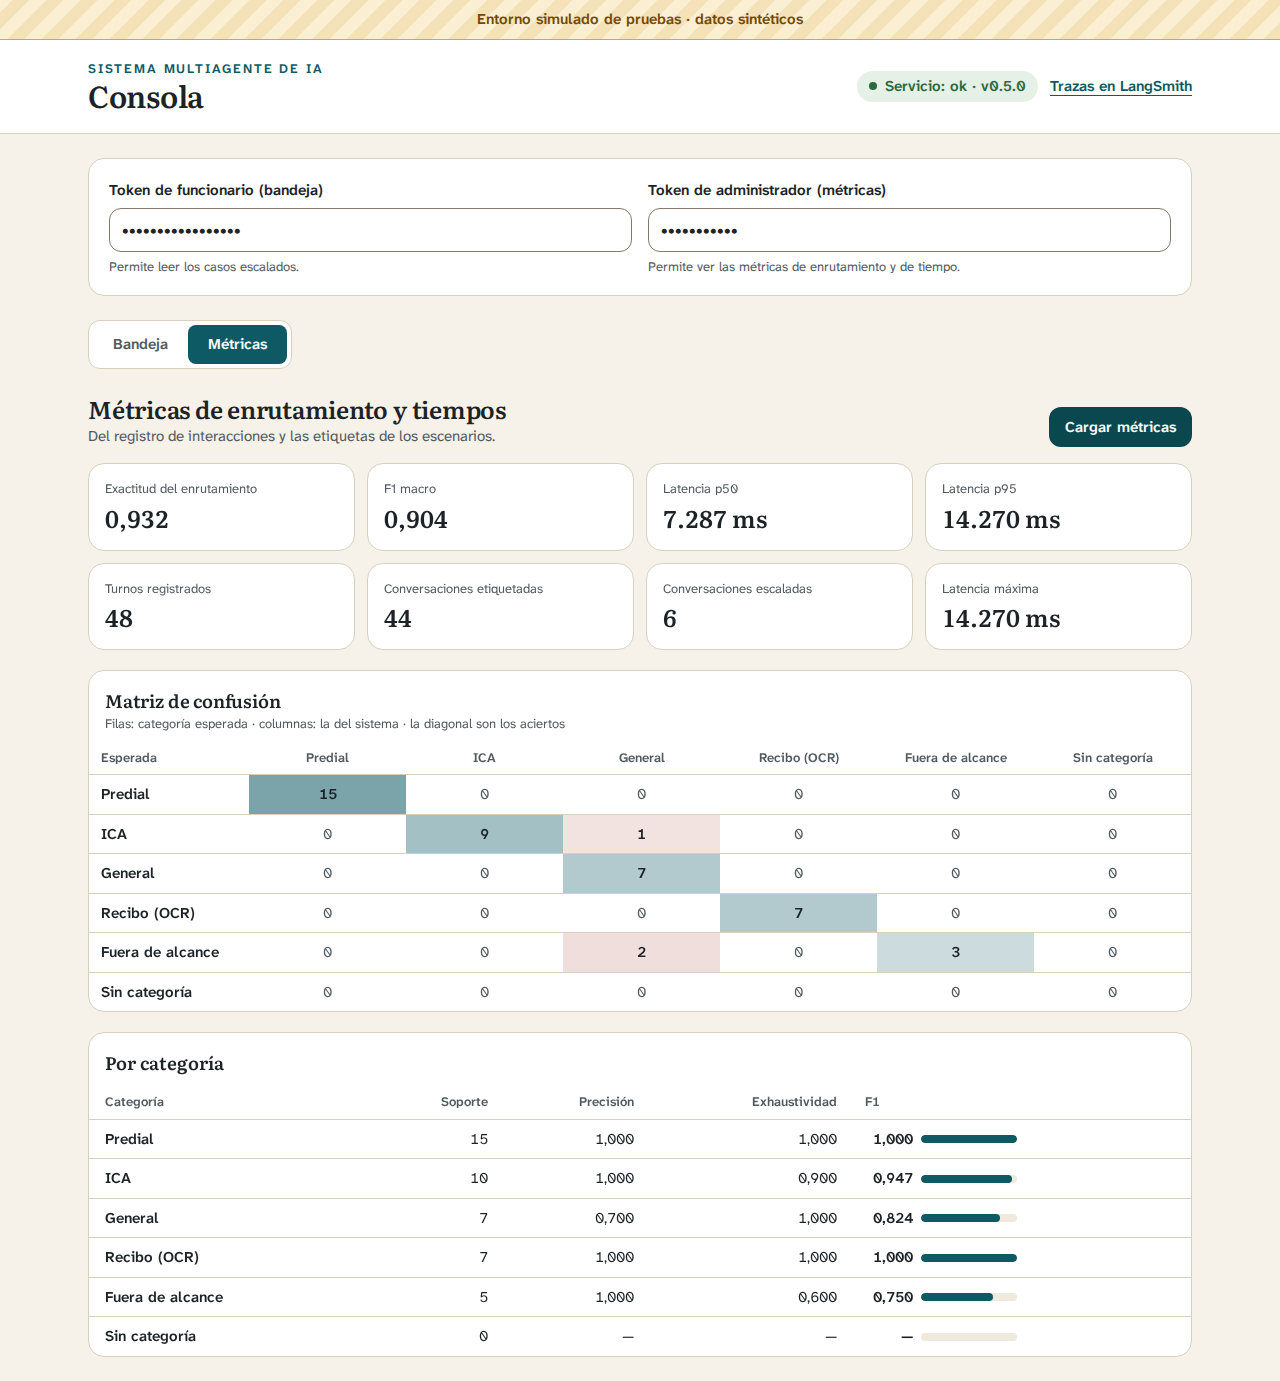
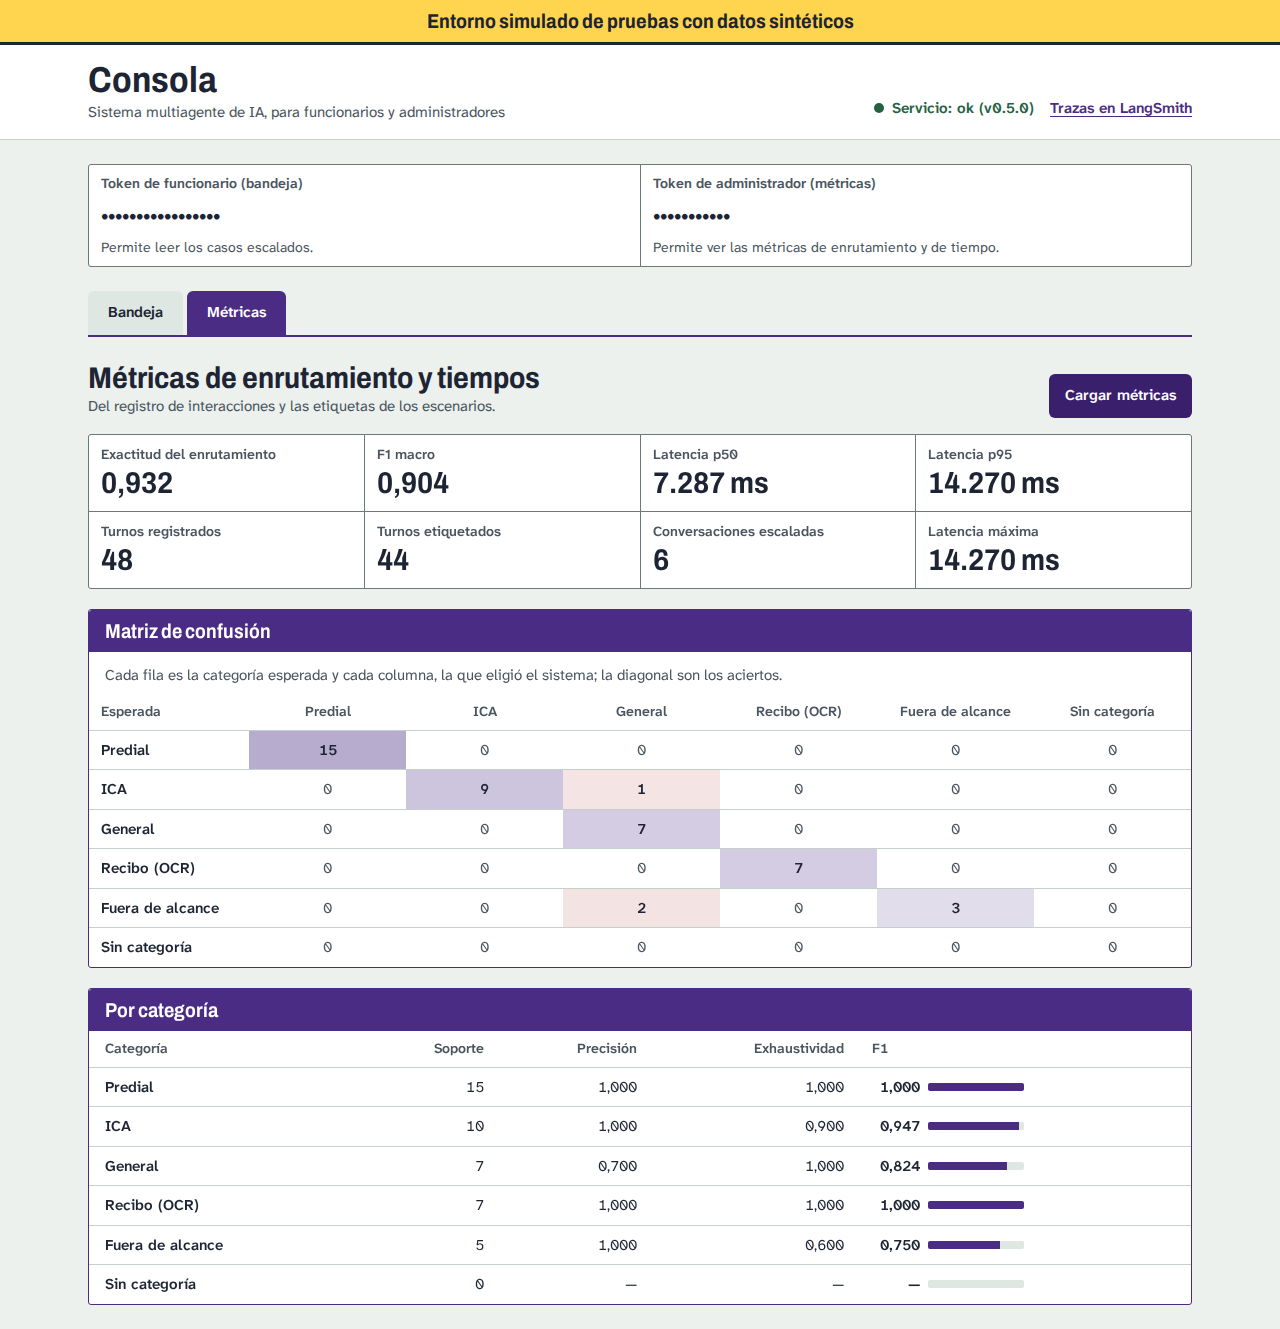
docs(web): registrar el sistema visual y volver a tomar las capturas
web/DESIGN.md con la dirección «Formulario y sello»; el resumen de B11
reemplaza la sección de diseño y el resumen para el documento; se
actualiza la fila 3.9 de los cambios para el documento; las 16
capturas se tomaron de nuevo y se revisaron una por una.

Refs: RF-UI-01 · Widget embebible

diff --git a/docs/resumenes/b11.md b/docs/resumenes/b11.md
@@ -24,25 +24,86 @@ Proyecto de Vite 8 con React 19 y Tailwind 4 en `web/` (ADR-08), con tres págin
 - **`/consola/`:**
   - la **bandeja** de solo lectura, con el token de funcionario: filtros por búsqueda, motivo y estado, y el detalle del caso con su resumen, su resumen estructurado (como lista de datos) y la conversación;
   - las **métricas**, con el token de administrador: exactitud, F1 macro, latencias p50 y p95 y la máxima, y conversaciones escaladas;
-  - la **matriz de confusión** como tabla con intensidad de color (acento en la diagonal y error fuera de ella), con números tabulares;
+  - la **matriz de confusión** como tabla con intensidad de color (morado en la diagonal y rojo fuera de ella), con números tabulares;
   - **precisión, exhaustividad y F1 por clase**;
   - el estado del servicio (`/health`) y un enlace a LangSmith.
 
 ### Diseño
 
-- **Dirección visual «papel cívico»:** institucional y confiable, pero cálida. Fondo de papel, tinta casi negra y un solo acento, azul petróleo. Sin degradados ni plantillas por defecto, y sin colores, logos ni nombres de la Alcaldía de Bogotá o de la Secretaría de Hacienda.
-- **Paleta** como variables del tema de Tailwind (`src/estilos.css`): superficies, texto, acento, éxito, advertencia y error.
-  - Todos los pares de texto cumplen WCAG 2.2 AA: tinta sobre papel 14,4:1, texto secundario 6,3:1, acento sobre blanco 7,9:1, advertencia 6,8:1, error 6,1:1 y éxito 5,6:1.
-  - Los bordes de los controles cumplen 3:1 (3,8:1).
-  - Las celdas de la matriz conservan al menos 5,9:1, porque la intensidad tiene un tope.
-- **Tipografía autoalojada** con fontsource, sin CDN: Literata, una serif humanista con tamaño óptico, para los títulos; y Atkinson Hyperlegible Next, diseñada para la legibilidad, para el texto. La escala de tamaños y de espacios es la misma en las tres páginas.
-- **Movimiento sobrio:** la entrada de los mensajes y los cambios de color duran de 150 a 220 ms, con ease-out. Con `prefers-reduced-motion`, no hay animaciones ni transiciones.
+La dirección «Formulario y sello» reemplazó a la primera dirección de B11 («papel cívico»), que
+tenía varias señales de diseño generado: fondo crema con serif en los títulos, etiquetas en
+mayúsculas espaciadas, datos unidos con puntos medios y tarjetas idénticas. El registro completo
+está en `web/DESIGN.md`.
+
+- **Dirección:** sale de los materiales del trámite, sin imitar ningún formulario, sello ni marca
+  real:
+  - el papel de seguridad verde pálido de los recibos, como fondo;
+  - las casillas, con su rótulo dentro del borde;
+  - las bandas que encabezan cada bloque;
+  - la tinta morada de los sellos, como único acento, plana y sin degradados.
+
+  El amarillo de resaltador queda solo para el rótulo de entorno simulado. No hay colores, logos
+  ni nombres de la Alcaldía de Bogotá, la Secretaría de Hacienda, la DIAN o bancos.
+- **Por qué:** la web la usan contribuyentes de todas las edades y funcionarios. El mundo del
+  trámite les resulta conocido y transmite confianza institucional sin parecer una plantilla. Los
+  bordes, las bandas y los renglones dicen qué es un campo, un bloque o una fila, en lugar de
+  decorar.
+- **Paleta** como variables del tema de Tailwind (`src/estilos.css`). `npm run contraste`
+  (`web/scripts/contraste.mjs`) la mide contra WCAG 2.2 AA:
+  - tinta sobre papel, 13,6:1;
+  - texto secundario, 6,7:1;
+  - morado sobre blanco y blanco sobre morado, 10,5:1;
+  - tinta sobre el rótulo, 11:1;
+  - funcionario, 7,4:1;
+  - fuera de horario, 7,5:1;
+  - error, 6,3:1;
+  - bordes de control, 3,9:1 o más;
+  - foco morado sobre papel, 9,2:1, y foco amarillo sobre morado, 7,5:1;
+  - celda de acierto más intensa de la matriz, 7,2:1, y celda de error más intensa, 8,3:1 (la
+    intensidad tiene un tope).
+- **Tipografía autoalojada** con fontsource, sin CDN:
+  - Archivo semicondensada para el rótulo, los títulos, las bandas y las cifras;
+  - Atkinson Hyperlegible Next, diseñada para la legibilidad, para el texto. Los mensajes del
+    widget pasan a 17 px.
+
+  Se retiró Literata.
+- **Composición:**
+  - quien habla se identifica con una pestaña de carpeta: morada para el asistente de IA, verde
+    para el funcionario y gris para el sistema;
+  - las listas son renglones y los campos y las cifras, casillas unidas;
+  - el caso abierto es un folio con su banda;
+  - solo el panel del widget lleva sombra.
+- **Movimiento:** solo responde a una acción.
+  - La llegada de un mensaje y la apertura de un caso duran 180 ms.
+  - El panel abre en 200 ms y cierra en 140 ms, desde el botón.
+  - Un botón pulsado cede al 98 %.
+  - Con `prefers-reduced-motion`, los mensajes solo aparecen, nada se desplaza y los puntos de
+    «escribiendo» quedan quietos.
 - **Accesibilidad:**
-  - foco visible de 3 px en todo control;
+  - foco de 3 px en todo control, amarillo sobre fondos morados o de tinta;
   - `aria-live` en los mensajes nuevos y en el estado del interlocutor;
-  - etiquetas en cada campo y nombre accesible en el botón del recibo;
-  - las pruebas envían la consulta con Enter, sin ratón;
-  - de 360 px a escritorio: en el celular, la tabla por clase se abrevia y la matriz se desplaza dentro de su tarjeta.
+  - la ayuda de cada token está ligada a su campo;
+  - el enlace a LangSmith avisa que abre otra pestaña;
+  - los botones de carga muestran que están cargando (`aria-busy`);
+  - al abrir un caso, el foco pasa a su título;
+  - de 360 px a escritorio, sin desplazamiento horizontal.
+- **Cómo se hizo:**
+  1. Crítica y auditoría de Impeccable, con dos revisiones independientes: diseño, y detector
+     con navegador sobre la API simulada.
+  2. Revisión de accesibilidad y de movimiento.
+  3. Pulido.
+  4. Revisión con `npx playwright cli` en 390 y 1280 px.
+  5. Detector de Impeccable sin hallazgos al final.
+
+  Las 12 pruebas de Playwright pasan sin cambiar ninguna aserción; solo cambió el nombre de la
+  fuente que esperan. Las 16 capturas se volvieron a tomar y se revisaron una por una. La pasada
+  no tuvo gasto de API.
+- **Pendiente:** la crítica propuso funciones nuevas que no caben en una pasada de diseño, porque
+  cambian el contrato o los textos del sistema:
+  - un número de radicado al escalar;
+  - los botones «Sí» y «No» para confirmar el recibo;
+  - un enlace para iniciar sesión desde el aviso de sesión;
+  - guardar la conversación.
 
 ## Requerimientos
 
@@ -175,6 +236,23 @@ Se actualizó `docs/cambios_para_documento.md`:
 
 ## Resumen para el documento
 
-Se construyó la interfaz web con Vite, React y Tailwind: una OVT simulada, rotulada como entorno de pruebas y sin marcas reales, que inserta el widget en un iframe y le pasa la sesión simulada; el widget, con el aviso de IA al abrir, la identificación del interlocutor, las fuentes de cada respuesta, el aviso de fuera de horario, la carga del recibo y el botón para hablar con un funcionario; y la consola, con la bandeja de casos y las métricas de enrutamiento.
+Se construyó la interfaz web con Vite, React y Tailwind. Tiene tres páginas:
 
-La interfaz siguió una dirección visual propia, con una paleta de un solo acento que cumple el contraste WCAG 2.2 AA, tipografía autoalojada pensada para la legibilidad, movimiento breve que respeta la preferencia de reducirlo, y uso con teclado de 360 px a escritorio. Seis pruebas con Playwright verificaron los flujos, y las capturas se tomaron en 390 y 1280 px.
+- una OVT simulada, rotulada como entorno de pruebas y sin marcas reales, que inserta el widget en
+  un iframe y le pasa la sesión simulada;
+- el widget, con el aviso de IA al abrir, la identificación del interlocutor, las fuentes de cada
+  respuesta, el aviso de fuera de horario, la carga del recibo y el botón para hablar con un
+  funcionario;
+- la consola, con la bandeja de casos y las métricas de enrutamiento.
+
+La interfaz tiene una identidad visual propia, «Formulario y sello», tomada de los materiales del
+trámite tributario sin imitar ninguno real: papel de seguridad, casillas, bandas de sección y tinta
+morada de sello. Reemplazó a una primera dirección que tenía rasgos de plantilla.
+
+- La paleta cumple el contraste WCAG 2.2 AA y un script la mide.
+- La tipografía es autoalojada y pensada para la legibilidad.
+- El movimiento es breve, responde solo a acciones y respeta la preferencia de reducirlo.
+- Se puede usar con el teclado, de 360 px a escritorio.
+
+Seis flujos con Playwright verificaron las páginas, en 1280 y en 390 px, y las capturas se tomaron
+en esas dos anchuras.

diff --git a/web/DESIGN.md b/web/DESIGN.md
@@ -1,0 +1,161 @@
+---
+version: alpha
+name: Formulario y sello
+description: Sistema visual de la OVT simulada, el widget del asistente tributario y la consola de funcionarios del sistema multiagente de IA.
+colors:
+  papel: "#ECF1EE"
+  papel-2: "#DFE7E2"
+  hoja: "#FFFFFF"
+  renglon: "#C3D1CA"
+  borde-control: "#6B7A75"
+  tinta: "#1D2433"
+  tinta-suave: "#4A5560"
+  sello: "#4B2C85"
+  sello-fuerte: "#3A1F6C"
+  sello-suave: "#ECE6F5"
+  resaltador: "#FFD54F"
+  funcionario: "#24613F"
+  funcionario-suave: "#E2F0E6"
+  advertencia: "#6E4600"
+  advertencia-suave: "#FFF3CC"
+  advertencia-borde: "#C9962B"
+  error: "#A3271F"
+  error-suave: "#FBE9E7"
+typography:
+  titulo:
+    fontFamily: Archivo Variable
+    fontWeight: 700
+  texto:
+    fontFamily: Atkinson Hyperlegible Next Variable
+    fontWeight: 400
+  xs:
+    fontSize: 0.875rem
+    lineHeight: 1.4
+  sm:
+    fontSize: 0.9375rem
+    lineHeight: 1.5
+  base:
+    fontSize: 1.0625rem
+    lineHeight: 1.55
+  lg:
+    fontSize: 1.25rem
+    lineHeight: 1.3
+  xl:
+    fontSize: 1.5rem
+    lineHeight: 1.25
+  2xl:
+    fontSize: 1.875rem
+    lineHeight: 1.15
+  3xl:
+    fontSize: 2.25rem
+    lineHeight: 1.1
+rounded:
+  control: 6px
+  casilla: 3px
+  mensaje: 12px
+components:
+  rotulo:
+    backgroundColor: "{colors.resaltador}"
+    textColor: "{colors.tinta}"
+    typography: "{typography.titulo}"
+  banda:
+    backgroundColor: "{colors.sello}"
+    textColor: "{colors.hoja}"
+    typography: "{typography.titulo}"
+    rounded: "{rounded.casilla}"
+  casilla:
+    backgroundColor: "{colors.hoja}"
+    textColor: "{colors.tinta-suave}"
+    rounded: "{rounded.casilla}"
+  boton-principal:
+    backgroundColor: "{colors.sello}"
+    textColor: "{colors.hoja}"
+    rounded: "{rounded.control}"
+  boton-principal-hover:
+    backgroundColor: "{colors.sello-fuerte}"
+    textColor: "{colors.hoja}"
+---
+
+## Overview
+
+La oficina virtual tributaria simulada de un municipio colombiano, su asistente de IA y la
+consola de los funcionarios. La dirección sale de los materiales del trámite: el papel de
+seguridad verde pálido de los recibos, las casillas de los formularios con su rótulo dentro del
+borde, las bandas que encabezan cada bloque y la tinta morada de los sellos de radicado. No imita
+ningún formulario, sello ni marca real. El tono es institucional y sobrio; la cercanía la dan la
+letra legible y el lenguaje claro.
+
+## Colors
+
+- El fondo de las páginas es `papel`; lo que se lee o se llena va en `hoja`.
+- `sello` es el único acento: el asistente de IA, las bandas, los botones principales y el foco.
+  Es tinta plana.
+- `resaltador` se reserva para el rótulo de entorno simulado y para el anillo de foco sobre
+  `sello` o `tinta`.
+- Quien habla tiene un color fijo y siempre su nombre escrito: `sello` para el asistente de IA,
+  `funcionario` para el funcionario y `papel-2` con `tinta` para el sistema.
+- `renglon` solo separa filas y bloques. El borde de cualquier control usa `borde-control`.
+- Todo par de texto cumple 4,5:1 y todo control o anillo de foco, 3:1. `npm run contraste`
+  lo mide, junto con las celdas más intensas de la matriz de la consola.
+
+## Typography
+
+- `titulo` (Archivo, semicondensada) se usa en el rótulo, los títulos, las
+  bandas, los identificadores de caso y las cifras grandes.
+- `texto` (Atkinson Hyperlegible Next) se usa en todo lo demás. Los mensajes del widget van en
+  `base`, para lectores mayores o con baja visión.
+- Los títulos se escriben en oración, nunca en mayúsculas espaciadas.
+- Las tablas y los identificadores llevan cifras tabulares.
+- Las fuentes son autoalojadas, con fontsource y sin CDN.
+
+## Layout
+
+- El texto va alineado a la izquierda, con líneas de 65 a 75 caracteres.
+- En escritorio, la OVT deja libre la columna derecha para el panel del widget.
+- Desde 360 px no hay desplazamiento horizontal. La matriz de la consola es la excepción: avisa
+  que se desliza.
+- Una lista de datos se escribe como renglones, no como tarjetas. Los campos relacionados van
+  en casillas unidas: el filete entre ellas es el fondo `borde-control`.
+
+## Elevation & Depth
+
+Solo el panel flotante del widget y su botón llevan sombra. Las secciones se separan con bordes,
+bandas y renglones.
+
+## Shapes
+
+- El radio depende del papel: `control` en botones y campos, `casilla` en casillas, folios y
+  bandas, y `mensaje` en los mensajes del widget.
+- La esquina de un mensaje que toca la pestaña de quien habla queda recta.
+- Nada usa forma de píldora.
+
+## Components
+
+- **Rótulo:** franja fija arriba de la OVT con el texto exacto «Entorno simulado de pruebas — no
+  es la Oficina Virtual Tributaria real», grande y con un filete inferior de `tinta`. La consola
+  lleva una versión más baja.
+- **Banda:** el título de un bloque (sesión simulada, caso, matriz, tabla por categoría) en un
+  rectángulo de `sello` con texto `hoja`. Las bandas y el rótulo concentran la audacia de la
+  página; lo demás queda en tinta sobre papel.
+- **Casilla:** el campo con su rótulo pequeño arriba, dentro del borde. El foco rodea la casilla
+  entera.
+- **Pestaña de quien habla:** el nombre del interlocutor, como pestaña de carpeta pegada a su
+  mensaje.
+- **Movimiento:** solo responde a una acción.
+  - Un mensaje que llega o el caso que se abre aparece con un fundido y un desplazamiento corto,
+    con salida suave.
+  - El panel se abre y se cierra con la misma curva.
+  - Un botón pulsado cede un poco de escala.
+  - Con `prefers-reduced-motion`, nada se desplaza ni cambia de escala, y los puntos de
+    «escribiendo» quedan quietos.
+
+## Do's and Don'ts
+
+- Do: conservar el texto exacto del rótulo, grande y siempre visible.
+- Don't: usar marcas, logos, colores ni nombres reales (Alcaldía de Bogotá, Secretaría de
+  Hacienda, DIAN o bancos), ni copiar el estilo de un producto real.
+- Don't: poner fotos ni imágenes en la OVT.
+- Don't: dar al morado degradados, brillos ni íconos de magia o destellos.
+- Don't: poner etiquetas en mayúsculas sobre los títulos ni unir datos con puntos medios.
+- Don't: agregar librerías de interfaz o de animación. Las fuentes nuevas solo entran como
+  paquetes de fontsource con versión exacta.

diff --git a/docs/cambios_para_documento.md b/docs/cambios_para_documento.md
@@ -68,6 +68,6 @@ bloque y se entrega completo en B17 (sección 9 de la especificación técnica).
 | 3.6 (modo humano) y RF-OBS-02 | Cada mensaje nuevo de una conversación escalada se guarda en el caso; la matriz de confusión sale del registro de interacciones | El mensaje se guarda en el caso también fuera de horario (la respuesta es el aviso de horario). La matriz usa el primer turno de cada conversación, porque la categoría esperada es la del primer turno; el botón y el modo humano no cuentan como errores de enrutamiento | Propuesta en el PR de B9 |
 | Arquitectura 5.2 y especificación 4.5 (OCR) | El agente OCR valida la legibilidad y el tipo de documento con el modelo de visión, extrae los seis campos y pide la confirmación | La baja resolución, el recorte y el desenfoque se detectan por código antes del modelo (umbrales calibrados con la plantilla sintética), y el documento se rechaza con su motivo sin gastar una llamada; el tipo de documento y los campos los decide el modelo. Con datos por confirmar, el orquestador decide por código si el mensaje es un «sí» o un «no» claros y solo entonces lo envía al OCR, sin modelo y sin contar una reclasificación; cualquier otro mensaje hace vencer los datos; al confirmar, el OCR contrasta el avalúo y el valor liquidado con la obligación del predial en el adaptador, sin modificarla. Los recibos se dibujan con DejaVu Sans y no traen logos ni marcas reales | Propuesta en el PR de B10 |
 | RNF-03 y especificación 4.5 (nombre en el recibo) | El recibo trae el nombre del propietario; el agente no lo extrae | La imagen que recibe el modelo de visión trae el nombre sintético del propietario; el agente no lo extrae, no lo guarda y no lo devuelve. La imagen también llegaría a las trazas de LangSmith, donde el anonimizador solo enmascara texto (lo revisa la prueba de trazas de B12). Antes de producción, enmascarar esa región de la imagen | Propuesta en el PR de B10 |
-| 3.9 y ADR-08 (widget e interfaz) | Widget en iframe con el aviso de IA, el interlocutor, la carga de archivos, el aviso de horario y el botón del funcionario; consola con bandeja y métricas | El script de inserción monta el iframe con un botón para abrirlo u ocultarlo (abierto en escritorio y cerrado en el celular, para no tapar la página) y le pasa el token por `postMessage`, nunca en la URL. El widget muestra las fuentes de cada respuesta como referencias y la hora de regreso fuera de horario. La consola filtra la bandeja y muestra la matriz con intensidad de color, F1 por clase y latencias p50 y p95. Dirección visual propia con contraste WCAG 2.2 AA, tipografía autoalojada (Literata y Atkinson Hyperlegible Next) y movimiento breve que respeta `prefers-reduced-motion`. Las pruebas de la web usan la API simulada en el navegador; el contrato se prueba en Python | Propuesta en el PR de B11 |
+| 3.9 y ADR-08 (widget e interfaz) | Widget en iframe con el aviso de IA, el interlocutor, la carga de archivos, el aviso de horario y el botón del funcionario; consola con bandeja y métricas | El script de inserción monta el iframe con un botón para abrirlo u ocultarlo (abierto en escritorio y cerrado en el celular, para no tapar la página) y le pasa el token por `postMessage`, nunca en la URL. El widget muestra las fuentes de cada respuesta como referencias y la hora de regreso fuera de horario. La consola filtra la bandeja y muestra la matriz con intensidad de color, F1 por clase y latencias p50 y p95. Dirección visual propia, «Formulario y sello» (papel de seguridad, casillas, bandas y tinta de sello, registrada en `web/DESIGN.md`), con contraste WCAG 2.2 AA medido por un script, tipografía autoalojada (Archivo y Atkinson Hyperlegible Next) y movimiento breve, solo en respuesta a acciones, que respeta `prefers-reduced-motion`. Las pruebas de la web usan la API simulada en el navegador; el contrato se prueba en Python | Propuesta en el PR de B11 |
 
 Fuente: sección 9 de la especificación técnica v6.
